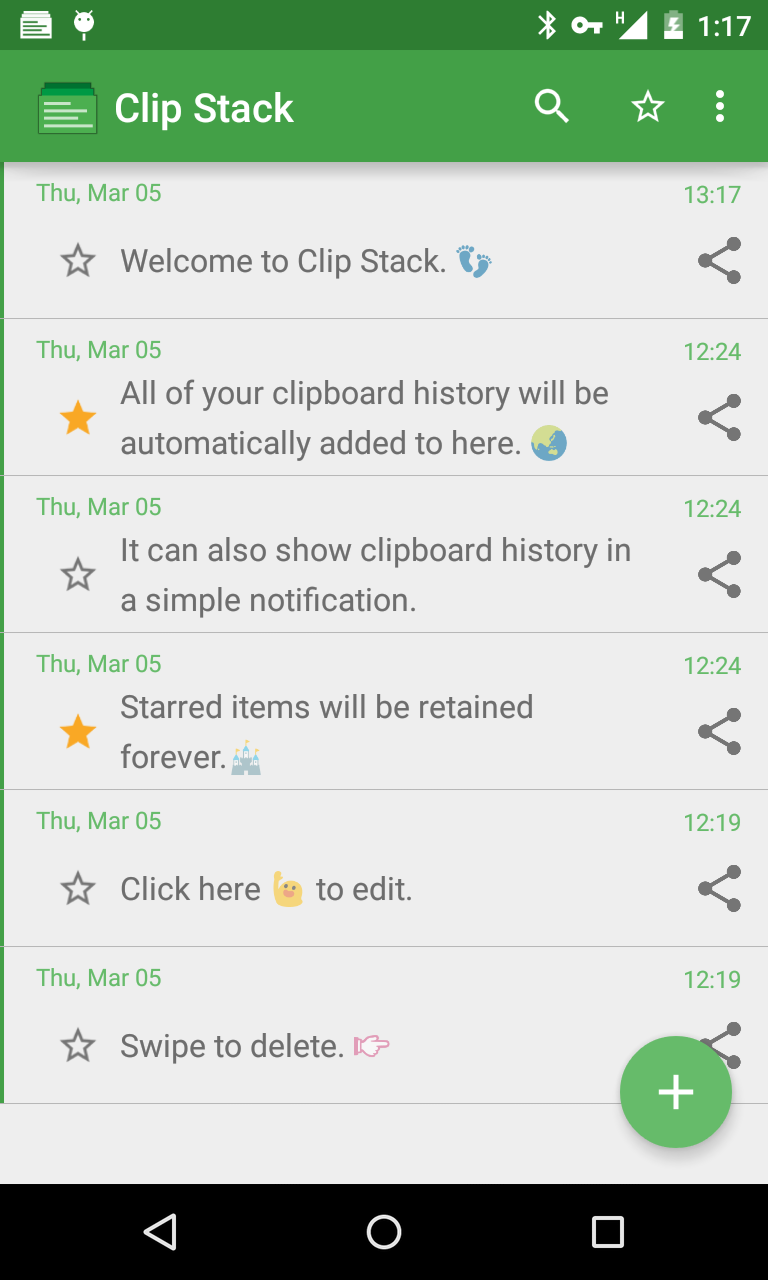
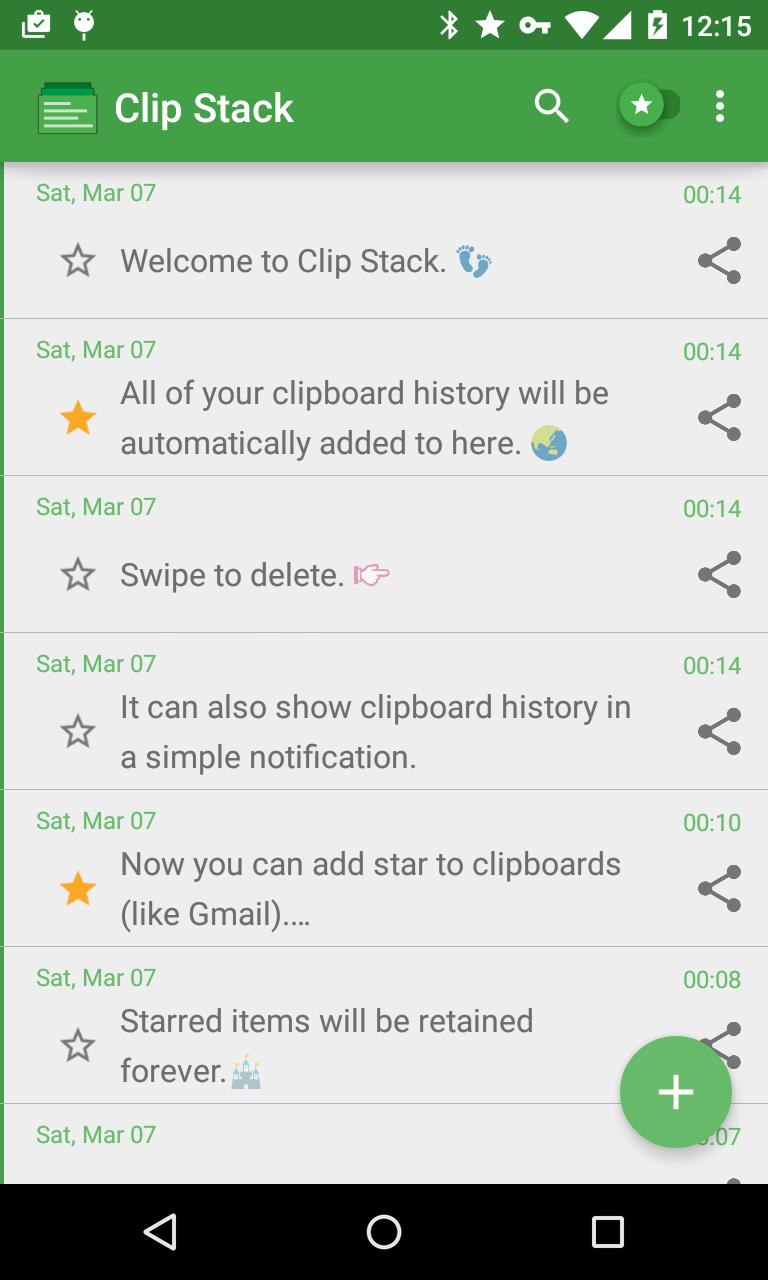
some small fix

diff --git a/app/src/main/java/com/catchingnow/tinyclipboardmanager/ActivityMain.java b/app/src/main/java/com/catchingnow/tinyclipboardmanager/ActivityMain.java
@@ -217,10 +217,7 @@ public class ActivityMain extends MyActionBarActivity {
             case R.id.action_search:
                 return super.onOptionsItemSelected(item);
             case R.id.action_star:
-                isStarred = !isStarred;
-                mFabRotation(isStarred, TRANSLATION_SLOW);
-                setStarredIcon();
-                setView();
+                onStarredMenuClicked();
                 break;
 //            case R.id.action_refresh:
 //                setView(queryText);
@@ -318,6 +315,23 @@ public class ActivityMain extends MyActionBarActivity {
                 mFabRotation(false, TRANSLATION_SLOW);
             }
         }, 200);
+    }
+
+    private void onStarredMenuClicked() {
+        isStarred = !isStarred;
+        mFabRotation(isStarred, TRANSLATION_SLOW);
+        setStarredIcon();
+        setView();
+        new Handler().postDelayed(new Runnable() {
+            @Override
+            public void run() {
+                mFAB.setImageResource(isStarred ?
+                        R.drawable.ic_action_star_white
+                                :
+                        R.drawable.ic_action_add
+                );
+            }
+        }, TRANSLATION_SLOW / 3 * 2);
     }
 
     private void mFabRotation(boolean clockwise, long time) {

diff --git a/app/src/main/java/com/catchingnow/tinyclipboardmanager/ActivityEditor.java b/app/src/main/java/com/catchingnow/tinyclipboardmanager/ActivityEditor.java
@@ -59,12 +59,13 @@ public class ActivityEditor extends MyActionBarActivity {
         }
 
         //set activity title and icon.
-        getSupportActionBar().setDisplayHomeAsUpEnabled(true);
+        getSupportActionBar().setDisplayShowHomeEnabled(true);
+        getSupportActionBar().setIcon(R.drawable.ic_action_edit);
         String titleText = getString(R.string.title_activity_activity_editor);
         if (oldText.isEmpty()) {
             titleText = getString(R.string.title_activity_editor);
         }
-        getSupportActionBar().setTitle(titleText);
+        getSupportActionBar().setTitle("  "+titleText);
         if (Build.VERSION.SDK_INT >= Build.VERSION_CODES.LOLLIPOP) {
             setTaskDescription(new ActivityManager.TaskDescription(
                     titleText,
